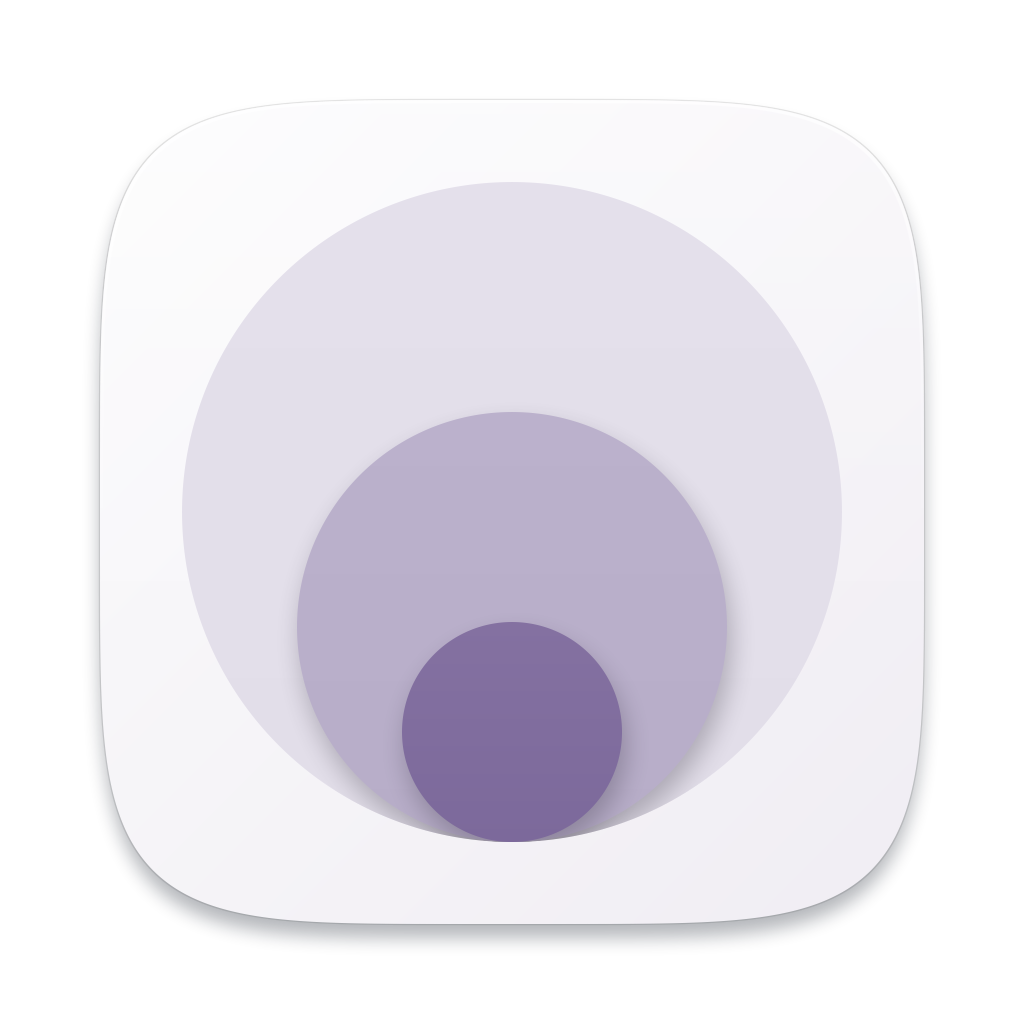
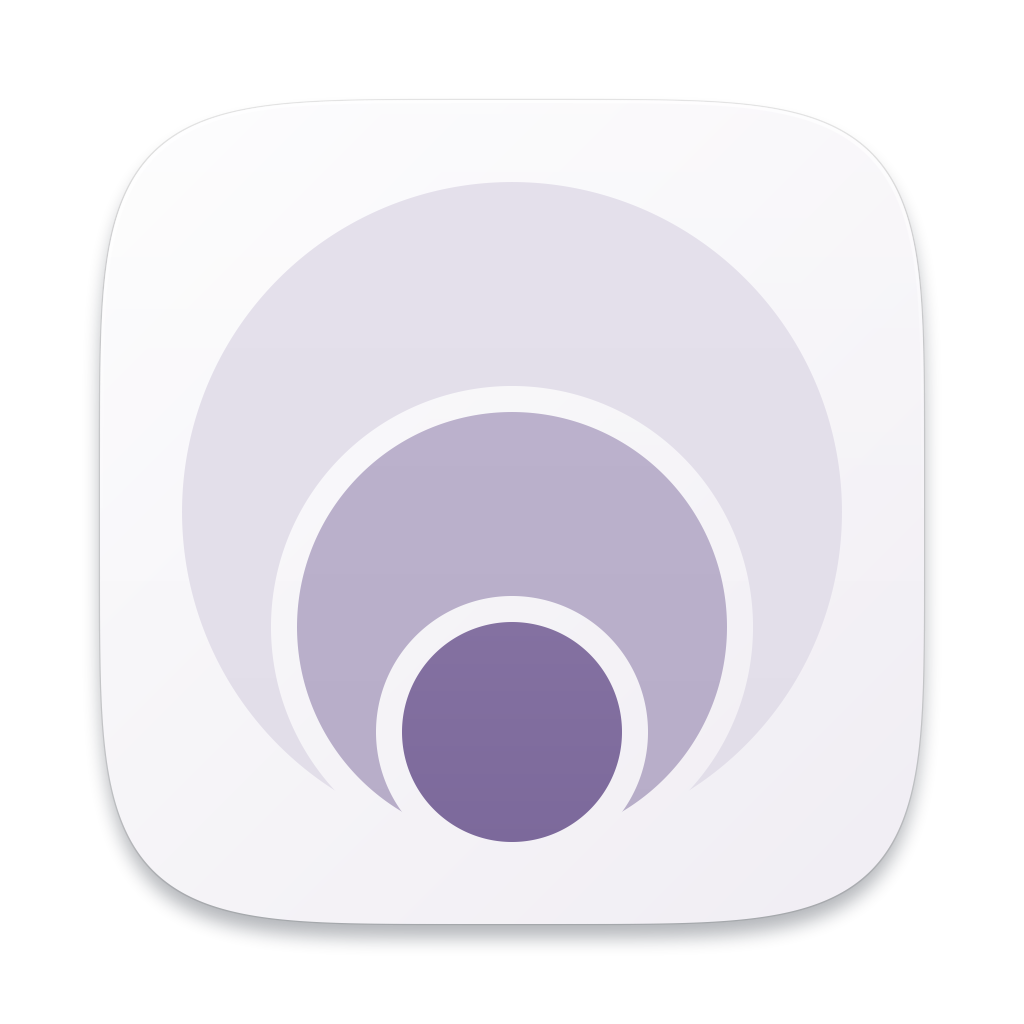
feat: 应用图标与托盘图标改用层间的缝，托盘最里层改为实心点 (#20)
- 应用图标层与层之间的软影换成露出底板的缝，外层在底部断开，不与内层粘连
- 托盘图标外两层保留轮廓，最里层改为实心点，层间留与应用图标相同的缝
- 重新生成 icon.png、icon-dev.png 与 tray.png

diff --git a/cmd/icon/main.go b/cmd/icon/main.go
@@ -1,5 +1,5 @@
 // Command icon 画出 Atlas 的应用图标并写成 PNG：三个在底部相切的圆，由外向内逐个收小，
-// 像一层层叠起的球，层与层之间用软影分开，放在淡色的底板上。生成两张：正式版 icon.png，
+// 像一层层叠起的球，层与层之间留一道露出底板的缝，放在淡色的底板上。生成两张：正式版 icon.png，
 // 与开发版 icon-dev.png，后者换一个主题色，在 Dock 里与正式版区分。另有托盘用的模板图标
 // tray.png（见 tray.go），放在 gui 包里内嵌。
 //
@@ -9,6 +9,7 @@ package main
 import (
 	"flag"
 	"fmt"
+	"image"
 	"image/color"
 	"image/png"
 	"os"
@@ -17,30 +18,26 @@ import (
 
 // style 是一张图标的配色。
 type style struct {
-	plate  [2]color.RGBA    // 底板渐变的两端，左上到右下
-	balls  [3][2]color.RGBA // 三个圆由外向内，各自从上到下的渐变
-	shadow color.NRGBA      // 层与层之间的软影
+	plate [2]color.RGBA    // 底板渐变的两端，左上到右下
+	balls [3][2]color.RGBA // 三个圆由外向内，各自从上到下的渐变
 }
 
 func rgb(v uint32) color.RGBA { return color.RGBA{uint8(v >> 16), uint8(v >> 8), uint8(v), 255} }
 
 // themed 以主题色配出一套图标：最里一层就是主题色，中间一层是它的浅色，最外一层与
-// 底板是更淡的底，层间的软影取自它的深色。
+// 底板是更淡的底。
 func themed(theme uint32) style {
-	c, white, black := rgb(theme), rgb(0xFFFFFF), rgb(0x000000)
+	c, white := rgb(theme), rgb(0xFFFFFF)
 	tint := func(t float64) color.RGBA { return lerp(white, c, t) } // t 越大越接近主题色
-	darken := func(x color.RGBA, t float64) color.RGBA { return lerp(x, black, t) }
 	// 一个圆上浅下深的渐变，以 x 为中点：圆心的高度上正是 x。
 	ball := func(x color.RGBA) [2]color.RGBA {
 		top := lerp(x, white, 0.03)
 		mirror := func(m, t uint8) uint8 { return uint8(max(0, 2*int(m)-int(t))) }
 		return [2]color.RGBA{top, {mirror(x.R, top.R), mirror(x.G, top.G), mirror(x.B, top.B), 255}}
 	}
-	s := darken(c, 0.7)
 	return style{
-		plate:  [2]color.RGBA{tint(0.03), tint(0.12)},
-		balls:  [3][2]color.RGBA{ball(tint(0.22)), ball(tint(0.55)), ball(c)},
-		shadow: color.NRGBA{s.R, s.G, s.B, 75},
+		plate: [2]color.RGBA{tint(0.03), tint(0.12)},
+		balls: [3][2]color.RGBA{ball(tint(0.22)), ball(tint(0.55)), ball(c)},
 	}
 }
 
@@ -82,15 +79,16 @@ func write(path string, st style) error {
 	return f.Close()
 }
 
-// draw 由外向内画三个圆：每个圆先把软影投在包着它的各层上，再画自己。
+// draw 在画好的底板上由外向内画三个圆：每个圆先在包着它的各层上重铺一圈底板，挖出缝，
+// 再画自己。
 func (c *canvas) draw(st style) {
-	var below []poly
+	plate := image.NewRGBA(c.img.Bounds())
+	copy(plate.Pix, c.img.Pix)
 	for i, r := range radii {
-		ball := disc(size/2, floor-r, r)
-		if len(below) > 0 {
-			c.shade(st.shadow, 4, 14, 12, c.mask(below...), ball)
+		if i > 0 {
+			c.fill(plate, []poly{disc(size/2, floor-r, r+gap)})
 		}
+		ball := disc(size/2, floor-r, r)
 		c.fill(ramp(floor-2*r, floor, st.balls[i][0], st.balls[i][1]), []poly{ball})
-		below = append(below, ball)
 	}
 }

diff --git a/cmd/icon/tray.go b/cmd/icon/tray.go
@@ -9,10 +9,13 @@ import (
 )
 
 // 托盘图标是 16 点见方、32 像素的模板图标：黑色加透明底，macOS 按菜单栏的明暗给它上色。
-// 画的是应用图标里三个在底部相切的圆，只留轮廓，小尺寸下比实心的清楚。
+// 画的是应用图标里三个在底部相切的圆：外两层只留轮廓，小尺寸下比实心的轻；最里一层是实心点，
+// 对应应用图标里主题色的那层。层间的缝与应用图标一样绕着内层一圈，比按比例缩小的宽，
+// 否则在 32 像素里看不出来。
 const (
 	traySize   = 32
 	trayStroke = 1.7 // 轮廓的粗细，像素
+	trayGap    = 1.6 // 层间的缝，像素
 	traySample = 4   // 每个像素每个方向取的采样数，用来抗锯齿
 )
 
@@ -29,7 +32,7 @@ func writeTray(path string) error {
 				for sx := range traySample {
 					px := float64(x) + (float64(sx)+0.5)/traySample
 					py := float64(y) + (float64(sy)+0.5)/traySample
-					if onOutline(px, py) {
+					if covers(px, py) {
 						covered++
 					}
 				}
@@ -49,12 +52,26 @@ func writeTray(path string) error {
 	return f.Close()
 }
 
-// onOutline 报告点 (x, y) 是否落在某个圆的轮廓上。
-func onOutline(x, y float64) bool {
-	for _, c := range trayCircles {
-		if math.Abs(math.Hypot(x-traySize/2, y-c.y)-c.r) <= trayStroke/2 {
-			return true
+// covers 报告点 (x, y) 是否落在图形上：外两层的轮廓或最里的实心点，且不在缝里。内层连同
+// 它的缝都包在外一层的缝之内，所以每层只需让开紧挨着的内一层。
+func covers(x, y float64) bool {
+	last := len(trayCircles) - 1
+	for i, c := range trayCircles {
+		d := math.Hypot(x-traySize/2, y-c.y)
+		on := math.Abs(d-c.r) <= trayStroke/2
+		if i == last {
+			on = d <= c.r+trayStroke/2
 		}
+		if !on {
+			continue
+		}
+		if i < last {
+			in := trayCircles[i+1]
+			if math.Hypot(x-traySize/2, y-in.y) <= in.r+trayStroke/2+trayGap {
+				continue
+			}
+		}
+		return true
 	}
 	return false
 }

diff --git a/cmd/icon/geometry.go b/cmd/icon/geometry.go
@@ -54,7 +54,8 @@ func disc(cx, cy, r float64) poly {
 }
 
 // 图标是三个由外向内逐个收小的圆，在底部相切，像一层层叠起的球。
-// floor 是相切处的高度，也是最大的圆的底；radii 是三个圆的半径，由外向内。
-const floor = 842.0
+// floor 是相切处的高度，也是最大的圆的底；radii 是三个圆的半径，由外向内；gap 是绕着每个
+// 内层的那道缝的宽度，各处一样宽，外层因此在底部断开，不与内层粘在一起。
+const floor, gap = 842.0, 26.0
 
 var radii = []float64{330, 215, 110}
